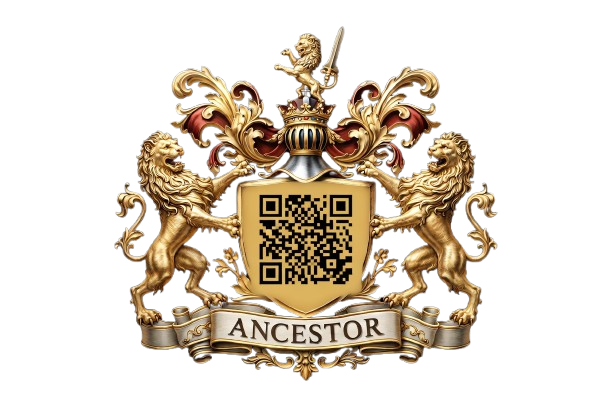
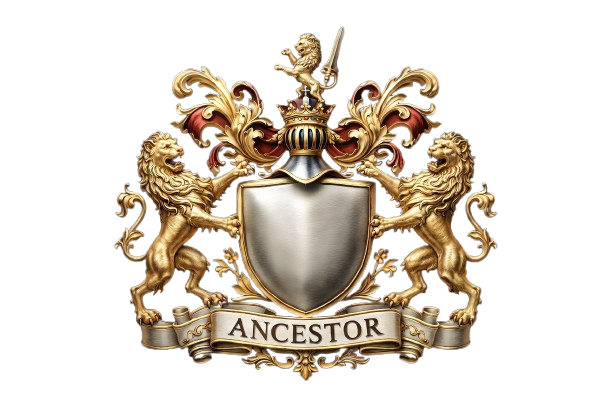
feat: new crest with blank shield + multiply blend for clean QR overlay

diff --git a/src/components/landing/LandingCrest.tsx b/src/components/landing/LandingCrest.tsx
@@ -29,7 +29,7 @@ export default function LandingCrest() {
           width: "16%",
           height: "auto",
           borderRadius: 3,
-          opacity: 0.92,
+          mixBlendMode: "multiply" as const,
         }}
       />
     </div>
